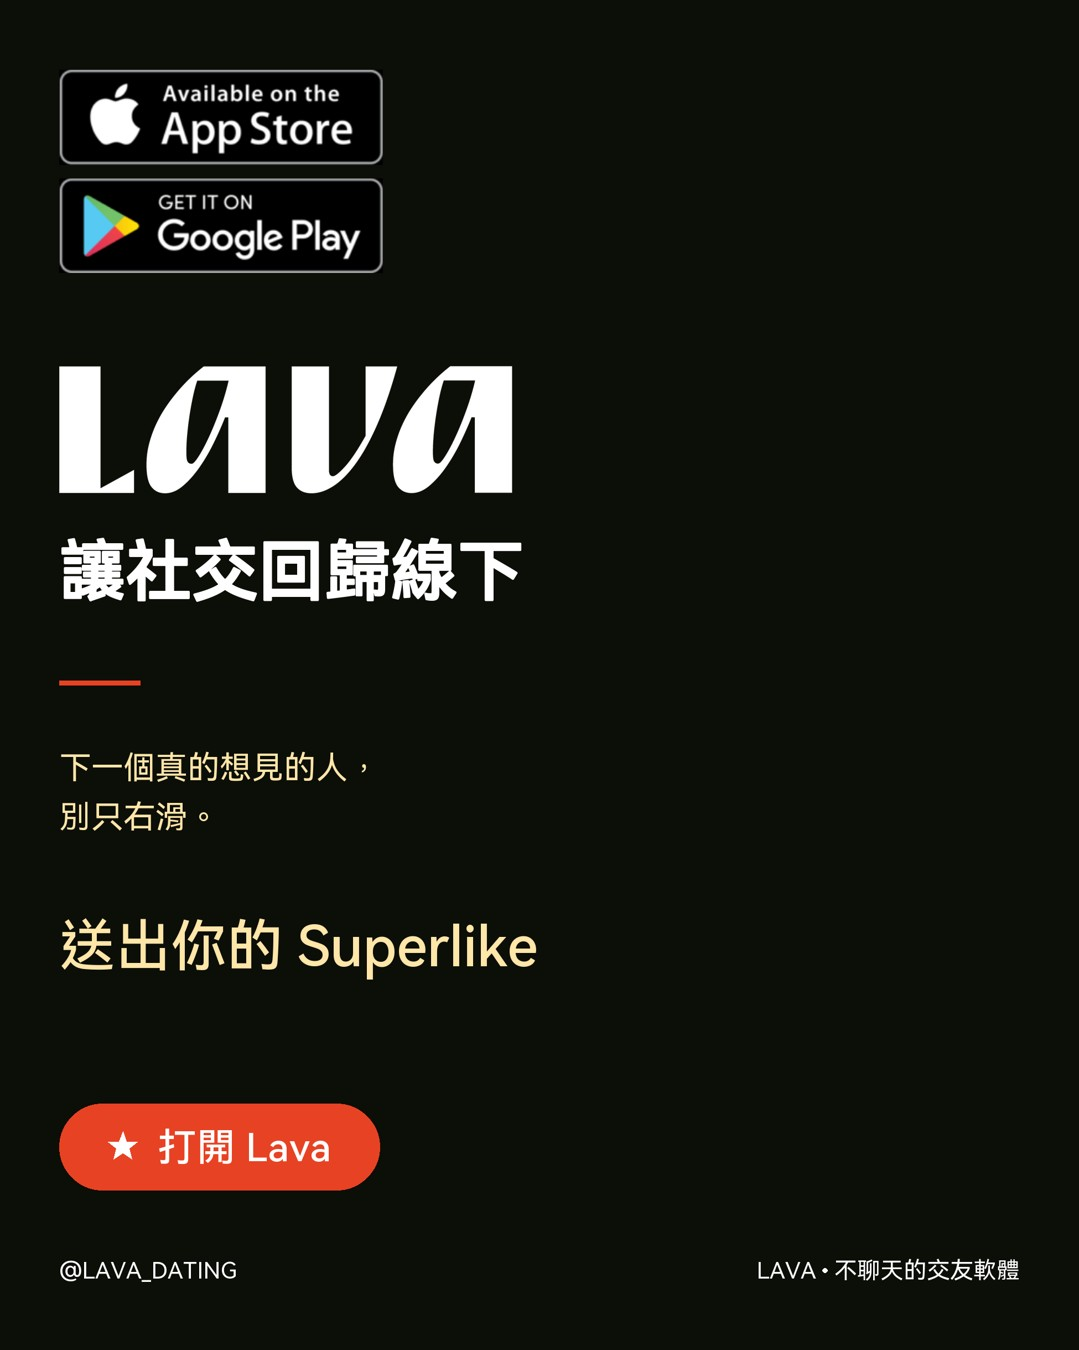
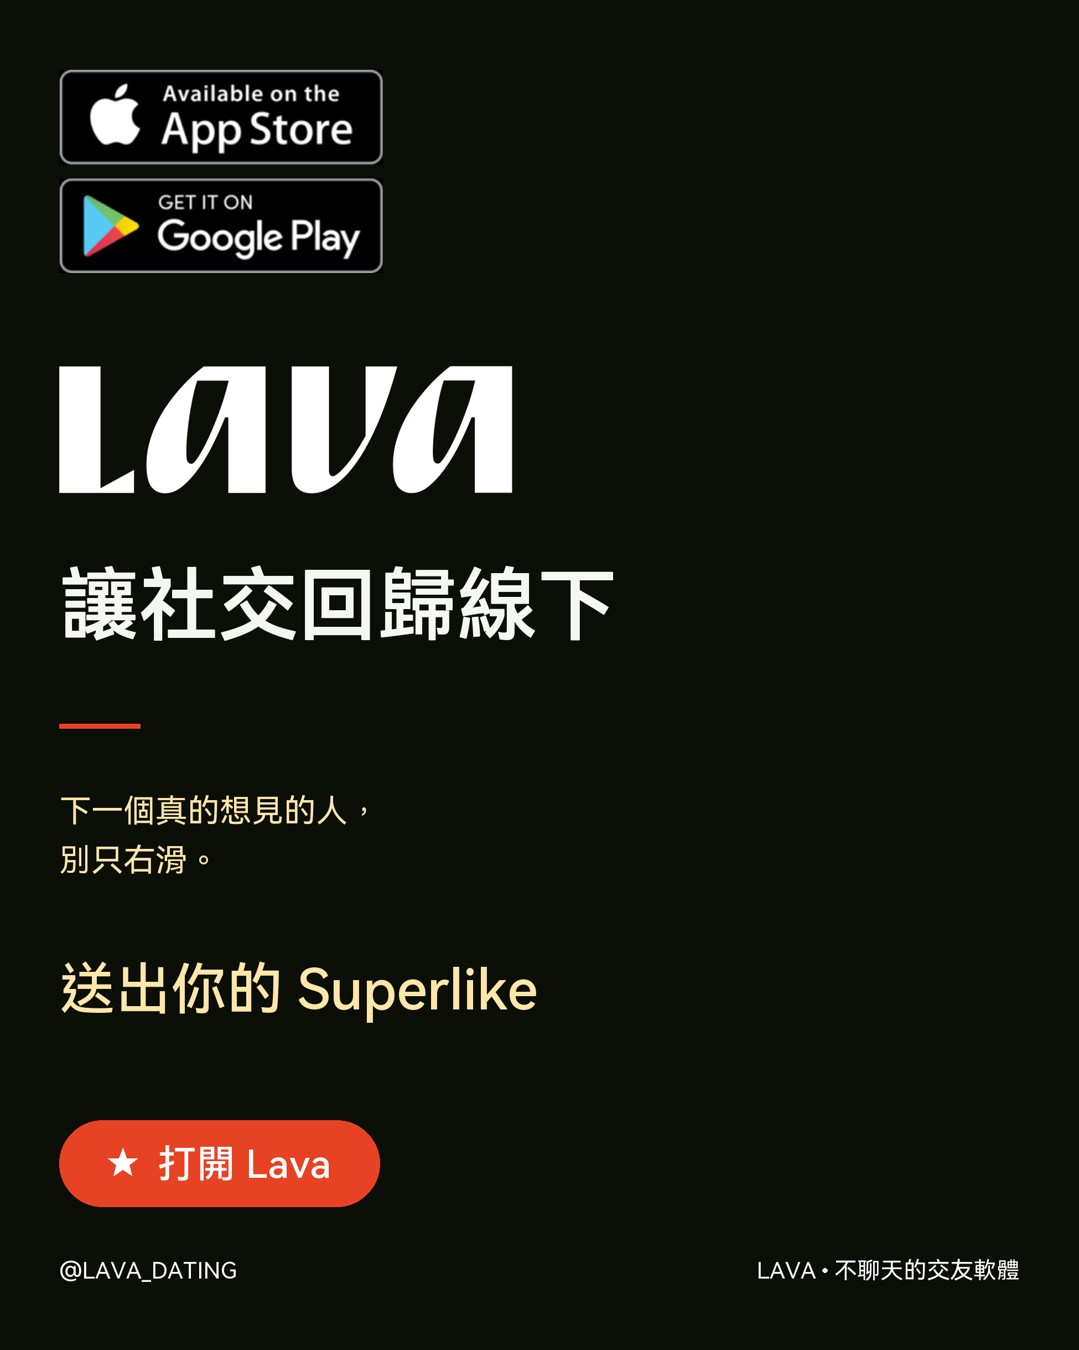
價格卡改用原稿比例＋墨水對齊定位，尾板標語加大改柔白降描邊
第四張兩次退件的兩個真因：
- 位置：卡內文字原本用版面級的間距階梯往下堆，和原稿對不上。改成用卡片
  自身比例（標籤墨頂 20.7% 卡高、數字墨頂 40.1%、數字墨底距卡底 13.3%），
  並扣掉 getbbox 位移做墨水對齊——d.text 的 y 是 ascent 頂不是墨頂，直接餵必偏
- 字重：原稿數字筆寬÷墨高＝0.169，品牌字型 Medium 只有 0.106，細了三分之一。
  沒有 Bold 可用，改用 0.037×字級的描邊補回到 0.172
- 註腳字級 0.036→0.0267W（原稿墨高 28px@1080，先前目測大了三成）
- 紅卡暈光收斂（alpha 110→70、spread 0.03→0.022），原稿的暈光很淡

第五張：
- 標語 0.062→0.074W 並再下移一階
- 純白改 OFFWHITE #F5F7F2（--neutral-50），近黑底上純白過刺眼
- 描邊 0.022→0.010：中文筆畫多，描太粗會糊掉「歸」「線」的內部空隙，
  看起來就像選錯字型。放大字級才是拉重量的主力

diff --git a/scripts/render_product.py b/scripts/render_product.py
@@ -41,6 +41,7 @@ CREAM = (255, 230, 169)    # --soft-yellow #FFE6A9
 RED   = (232, 66, 36)      # --lava-orange #E84224
 INK   = (41, 45, 28)       # --night-olive #292D1C（米底上的深色字）
 WHITE = (255, 255, 255)
+OFFWHITE = (245, 247, 242)  # --neutral-50 #F5F7F2，大字用；純白壓在近黑底上會刺眼
 DIM   = (30, 33, 24)       # 深底上的襯卡
 
 MX          = 0.055        # 左右邊界，與 render_post_v5 一致
@@ -76,6 +77,14 @@ NOTIFY_H    = 0.2325       # 橫幅媒體帶總高佔 H（原稿 3.06:1，舊值
 # 校準法：在同一支字型下逐級渲染，量 getbbox 高度，取最接近原稿墨高的那級。
 FS_PRICE_LABEL  = 0.032    # 原稿墨高 33px@1080 → 0.032W
 FS_PRICE_AMOUNT = 0.168    # 原稿墨高 183px@1080 → 0.168W
+# 卡內位置全用卡片自身比例表示，卡片改大改小都跟著走（原稿卡 918×392px@1080）
+PRICE_PAD_X       = 0.061  # 筆位左內縮 ÷ 卡寬（56/918）
+PRICE_LABEL_TOP   = 0.207  # 標籤墨頂 ÷ 卡高（81/392）
+PRICE_AMOUNT_TOP  = 0.401  # 數字墨頂 ÷ 卡高（157/392）
+# 原稿數字的筆寬÷墨高＝0.169，品牌字型 Medium 只有 0.106，細了三分之一。
+# 沒有 Bold 可用，用描邊補回來；0.037×字級實測可還原到 0.172。
+PRICE_AMOUNT_STROKE = 0.037
+FS_PRICE_NOTE = 0.0267     # 原稿註腳墨高 28px@1080（先前 0.036 目測，大了三成）
 
 PRODUCT_TPL_ID = "tpl-product-intro-carousel"
 DESIGN_LAYOUTS = ("diagram", "price", "cta")   # 引擎繪製的設計版面，不需要照片
@@ -394,33 +403,44 @@ def lay_price(img, d, slide, shot, dark, band):
     note = (slide.get("price_note") or "").strip()
     # 註腳不佔內容帶：原稿裡它貼在版面底部（實測 0.862H，footer 之上），
     # 不是黏在紅卡下緣。掛在帶內會同時吃掉卡片高度、又讓卡片被推離視覺中心。
-    fs_note = int(W * 0.036)
+    fs_note = int(W * FS_PRICE_NOTE)
     f_note = ImageFont.truetype(E.F_REG, fs_note)
     card_h = int(min(H * 0.290, bh * BAND_FILL))    # 原稿實測 0.290H（舊值 0.20 偏小）
     by0 = top + (bh - card_h) // 2
     by1 = by0 + card_h
     r = int(W * 0.030)
-    img = _glow(img, [bx0, by0, bx1, by1], r, RED, spread=0.03, alpha=110)
+    img = _glow(img, [bx0, by0, bx1, by1], r, RED, spread=0.022, alpha=70)   # 原稿暈光很收斂
     d = ImageDraw.Draw(img)
     d.rounded_rectangle([bx0, by0, bx1, by1], radius=r, fill=RED)
-    px = bx0 + int(W * 0.032)
+    # 卡內定位一律用「卡片自身的比例」＋墨水對齊，不用間距階梯往下堆。
+    # 階梯是版面級的節奏，套進卡片內部就會和原稿對不上（Jesse 2026-08-23 兩次退件）：
+    # 原稿的標籤墨頂在卡高 20.7%、數字墨頂在 40.1%、數字墨底距卡底 13.3%。
+    # 另外 d.text 的 y 是 ascent 頂不是墨頂，直接餵座標必偏，所以先扣掉 getbbox 的位移。
+    cw_, chh = bx1 - bx0, by1 - by0
+    penx = bx0 + int(cw_ * PRICE_PAD_X)
     lab = (slide.get("price_label") or "").strip()
     amt = (slide.get("price_amount") or "").strip()
-    fs_lab = int(W * FS_PRICE_LABEL)
-    inner = by0 + S_SM
+
+    def _ink_text(txt, f, ink_top, sw=0):
+        bb = f.getbbox(txt, stroke_width=sw) if sw else f.getbbox(txt)
+        d.text((penx, ink_top - bb[1]), txt, font=f, fill=WHITE,
+               stroke_width=sw, stroke_fill=WHITE if sw else None)
+
     if lab:
-        f = ImageFont.truetype(E.F_MED, fs_lab)
-        d.text((px, inner), lab, font=f, fill=WHITE)
-        inner += fs_lab + S_XS
+        _ink_text(lab, ImageFont.truetype(E.F_MED, int(W * FS_PRICE_LABEL)),
+                  by0 + int(chh * PRICE_LABEL_TOP))
     if amt:
         fs = int(W * FS_PRICE_AMOUNT)
+        ink_top = by0 + int(chh * PRICE_AMOUNT_TOP)
         while fs > int(W * 0.05):
             f = ImageFont.truetype(E.F_MED, fs)
-            if (d.textlength(amt, font=f) <= (bx1 - bx0) - 2*int(W*0.032)
-                    and inner + fs * 1.15 <= by1 - S_XS):
+            sw = max(1, int(fs * PRICE_AMOUNT_STROKE))
+            bb = f.getbbox(amt, stroke_width=sw)
+            if (bb[2] - bb[0] <= cw_ - 2 * int(cw_ * PRICE_PAD_X)
+                    and ink_top + (bb[3] - bb[1]) <= by1 - int(chh * 0.10)):
                 break
             fs = int(fs * 0.93)
-        d.text((px, inner), amt, font=f, fill=WHITE)
+        _ink_text(amt, f, ink_top, sw=max(1, int(fs * PRICE_AMOUNT_STROKE)))
     if note:
         # 貼齊 footer 上方（原稿實測 0.862H），由下往上長，長句自動斷行
         lines = _recolor(E.wrap_semantic(note, _accent(dark), f_note, bx1 - bx0, d),
@@ -480,11 +500,14 @@ def _render_cta(slide, out_path, dark=True):
     lg = Image.open(E.LOGO if dark else E.LOGO.replace("white", "black")).convert("RGBA")
     lw = int(W * 0.42); lg = lg.resize((lw, int(lg.height * lw / lg.width)))
     img.paste(lg, (int(W * MX), y), lg); d = ImageDraw.Draw(img)
-    y += lg.height + S_MD
-    fs_tag = int(W * 0.062)
+    y += lg.height + S_LG                    # 標語再往下讓一階
+    fs_tag = int(W * 0.074)                  # 0.062 → 0.074
+    # 描邊從 0.022 收到 0.010：中文筆畫多，描太粗會把「歸」「線」的內部空隙糊掉，
+    # 看起來就是「字型怪怪的」。字級本身放大才是拉重量的主力，描邊只補最後一點。
+    tag_col = OFFWHITE if dark else INK      # 純白在近黑底上過刺眼（Jesse 2026-08-23）
     d.text((int(W * MX), y), (slide.get("tagline") or "讓社交回歸線下"),
-           font=ImageFont.truetype(E.F_MED, fs_tag), fill=_fg(dark),
-           stroke_width=max(1, int(fs_tag * 0.022)), stroke_fill=_fg(dark))
+           font=ImageFont.truetype(E.F_MED, fs_tag), fill=tag_col,
+           stroke_width=max(1, int(fs_tag * 0.010)), stroke_fill=tag_col)
     y += int(fs_tag * 1.25) + S_LG
     d.line([(int(W*MX), y), (int(W*MX) + int(W*0.075), y)], fill=RED, width=int(H*0.004))
     y += S_LG
